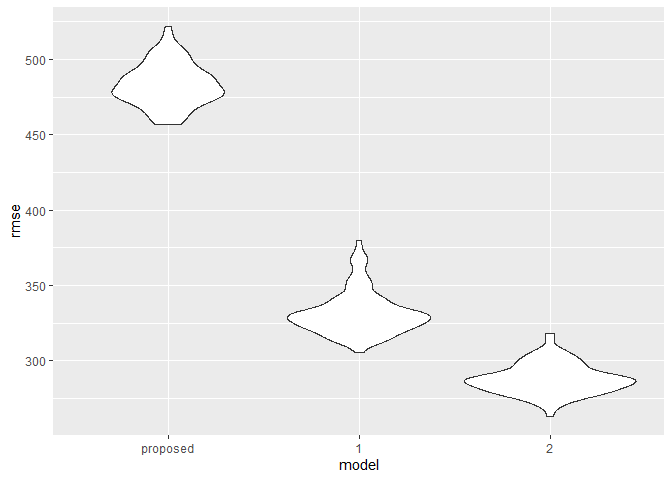
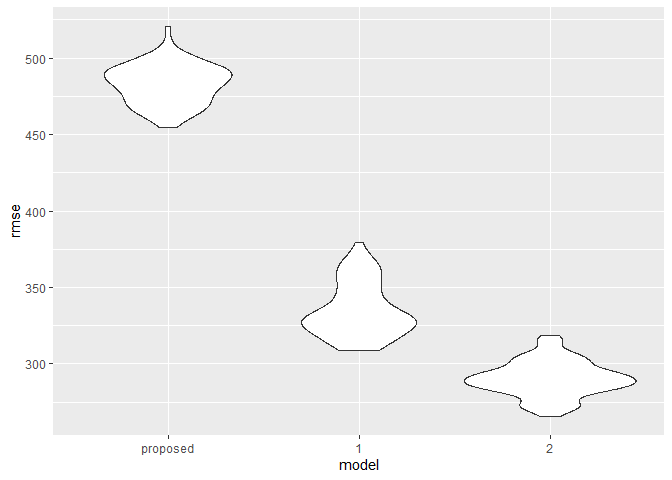
Added Comments and Explanations

diff --git a/p8105_hw6_as6183.md b/p8105_hw6_as6183.md
@@ -19,9 +19,10 @@ library(tidyverse)
     ## x dplyr::lag()    masks stats::lag()
 
 ``` r
-data = read.csv("./data/homicide-data.csv")%>%
-  mutate(city_state = str_c(city,state,sep=", "),
-         solved = ifelse(disposition != "Closed by arrest",0,1))%>%
+#reading in homicide data, perfoming data wrangling and cleaning
+data = read.csv("./data/homicide-data.csv")%>% 
+  mutate(city_state = str_c(city,state,sep=", "), 
+         solved = ifelse(disposition != "Closed by arrest",0,1))%>% 
   filter(city_state != "Dallas, TX" & city_state != "Phoenix, AZ" & city_state != "Kansas City, MO" & city_state != "Tulsa, AL")%>%
   filter(victim_race == "Black" | victim_race == "White")%>%
   mutate(victim_age = as.numeric(victim_age),
@@ -35,6 +36,8 @@ data = read.csv("./data/homicide-data.csv")%>%
     ## Warning in mask$eval_all_mutate(dots[[i]]): NAs introduced by coercion
 
 ``` r
+#glm only for baltimore
+
 glm_Bmore = data%>%
   filter(city_state == "Baltimore, MD")%>%
   glm(formula = solved~victim_age+victim_sex+victim_race,data = ., family=binomial)
@@ -59,6 +62,8 @@ glm_Bmore%>%
 | victim\_raceBlack | victim\_raceBlack | \-0.842 | 0.431 |   0.000 |    0.305 |     0.606 |
 
 ``` r
+#Glm for all cities in data set
+
 glm_all =
   data %>% 
   nest(data = -city_state) %>% 
@@ -146,6 +151,8 @@ glm_all =
     ## Waiting for profiling to be done...
 
 ``` r
+#plotting the distribution of OR values calculated from Glm model above
+
 glm_all%>%
    ggplot(aes(x = reorder(city_state,OR), y = OR)) +
    geom_bar(stat="identity", fill = "light blue", col = "white")+
@@ -168,9 +175,26 @@ glm_all%>%
 
 ![](p8105_hw6_as6183_files/figure-gfm/unnamed-chunk-1-1.png)<!-- -->
 
+**Comments on Odd Ratio Plot:**
+
+This plot shows the distribution of odd ratio by US Cities when
+comparing solving homicide cases when the victim is black to solving
+homicide cases when the victim is white. I found it very interesting
+that most cities have an Odds Ratio estimate of less than 1 which means
+that homicides where the victim is Black are solved with less frequency
+when compared to homicides where the victim is White. I also found it
+interesting that for cities that do have an Odds Ratio estimate above 1,
+the confidence interval is much larger and the interval contains numbers
+below 1 which indicates that the true Odds Ratio could be less than 1.
+This could be due to some of the cities that have a higher Odds Ratio
+such as Tampa, FL and Long Beach, CA having lower entries when compared
+to cities that have lower Odds Ratios such as Chicago, IL or Boston, MA.
+
 # Problem 2:
 
 ``` r
+#reading and cleaning birthweight data 
+
 data = read.csv("./data/birthweight.csv")%>%
   mutate(babysex = factor(babysex),
          frace = factor(frace),
@@ -188,7 +212,7 @@ library(modelr)
     ## Warning: package 'modelr' was built under R version 4.0.3
 
 ``` r
-proposed_model = lm(bwt~frace+malform+mrace+smoken,data = data)
+proposed_model = lm(bwt~frace+malform+mrace+smoken,data = data) #proposed model for determining birthweight
 
 proposed_model%>% 
   broom::tidy() %>% 
@@ -213,30 +237,45 @@ proposed_model%>%
 data%>%
   modelr::add_residuals(proposed_model)%>%
   modelr::add_predictions(proposed_model)%>%
-  ggplot(aes(pred,resid))+geom_point()
+  ggplot(aes(pred,resid))+geom_point() #adding residuals and predictions to model and graphing
 ```
 
 ![](p8105_hw6_as6183_files/figure-gfm/unnamed-chunk-3-1.png)<!-- -->
 
-**Description of Modeling Process and Graph:**
+**Description of Modeling Process:**
+
+For the modeling process I wanted to adjust for variables that I thought
+would be important indicators of the baby’s birthweight. The variables I
+chose to adjust for were father/mother’s race because I know that baby’s
+weight can vary drastically depending on their race, the presence of
+malformations that could affect weight because it says it could affect
+weight in the problem, and finally the average number of cigarettes
+smoked per day by the mother as that has been shown to affect the baby’s
+health in numerous studies.
 
 ``` r
+#seperating data into partitions for testing each model to determine optimal one
+
 cv_df = 
   crossv_mc(data, 100)%>% 
   mutate(
     train = map(train, as_tibble),
     test = map(test, as_tibble))
 
+#calculating rmse for each model to compare them
+
 cv_df = 
   cv_df %>% 
   mutate(
     proposed_model  = map(train, ~lm(bwt~frace+malform+mrace+smoken,data = .x)),
     model_1  = map(train, ~lm(bwt~gaweeks+blength,data = .x)),
-    model_2  = map(train, ~lm(bwt~bhead*blength+blength*babysex+bhead*babysex+bhead*babysex*blength,data = .x))) %>% 
+    model_2  = map(train, ~lm(bwt~bhead*blength*babysex,data = .x))) %>% 
   mutate(
     rmse_proposed = map2_dbl(proposed_model, test, ~rmse(model = .x, data = .y)),
     rmse_1 = map2_dbl(model_1, test, ~rmse(model = .x, data = .y)),
     rmse_2 = map2_dbl(model_2, test, ~rmse(model = .x, data = .y)))
+
+#plotting rmse values for each model using a violin plot
 
 cv_df %>% 
   select(starts_with("rmse")) %>% 
@@ -251,6 +290,15 @@ cv_df %>%
 
 ![](p8105_hw6_as6183_files/figure-gfm/unnamed-chunk-4-1.png)<!-- -->
 
+**Comments on Comparison of Models:**
+
+From the violin plot above we can see that my proposed model has a much
+larger error when compared to model 1 (using length at birth and
+gestational age as predictors) and model 2 (using head circumference,
+length, sex, and all interactions as predictors). The best model
+according to error is model 2 which has the lowest error of the three
+models.
+
 # Problem 3:
 
 ``` r
@@ -262,6 +310,8 @@ library(rnoaa)
     ##   print.cache_info httr
 
 ``` r
+#reading in data and cleaning
+
 weather_df = 
   rnoaa::meteo_pull_monitors(
     c("USW00094728"),
@@ -282,6 +332,8 @@ weather_df =
     ## file min/max dates: 1869-01-01 / 2020-11-30
 
 ``` r
+#setting up bootstrap samples to generate r.squared and log(B0B1) values
+
 boot_sample = function(df) {
   sample_frac(df, replace = TRUE)
 }
@@ -299,6 +351,8 @@ boot_straps =
     ## Call `lifecycle::last_warnings()` to see where this warning was generated.
 
 ``` r
+#runnning bootstrap samples through model and extracting r.squared and log(B0B1) values 
+
 bootstrap_results = 
   boot_straps %>% 
   mutate(
@@ -314,6 +368,8 @@ bootstrap_results =
   mutate(log = log(`(Intercept)`*tmin))
 
 library(patchwork)
+
+# plotting distribution of r.squared (plot 1) and log(B0B1) [plot 2] values
 
 plot_1 = bootstrap_results%>%
    ggplot(aes(x = r.squared)) + 
@@ -337,14 +393,21 @@ plot_1 + plot_2
 
 **Explanation of R squared and log(B0B1) Results:**
 
+The distribution of values for R squared ranges from 0.877 to 0.939 and
+looks normally distributed. The distribution of values for log(B0B1)
+ranges from 1.915 to 2.096 and also looks approximately normally
+distributed.
+
 **Calculating Confidence Intervals:**
 
 ``` r
+#calculating confidence interval for r.squared
 confidence_r2 = bootstrap_results%>%
   summarize(
     ci_lower = quantile(r.squared,0.025), 
     ci_upper = quantile(r.squared,0.975))
 
+#calculating confidence interval for log(B0B1)
 confidence_log = bootstrap_results%>%
   summarize(
     ci_lower = quantile(log,0.025), 
@@ -394,7 +457,7 @@ ci\_upper
 
 <td style="text-align:right;">
 
-0.927
+0.928
 
 </td>
 
@@ -443,7 +506,7 @@ ci\_upper
 
 <td style="text-align:right;">
 
-1.966
+1.965
 
 </td>
 
